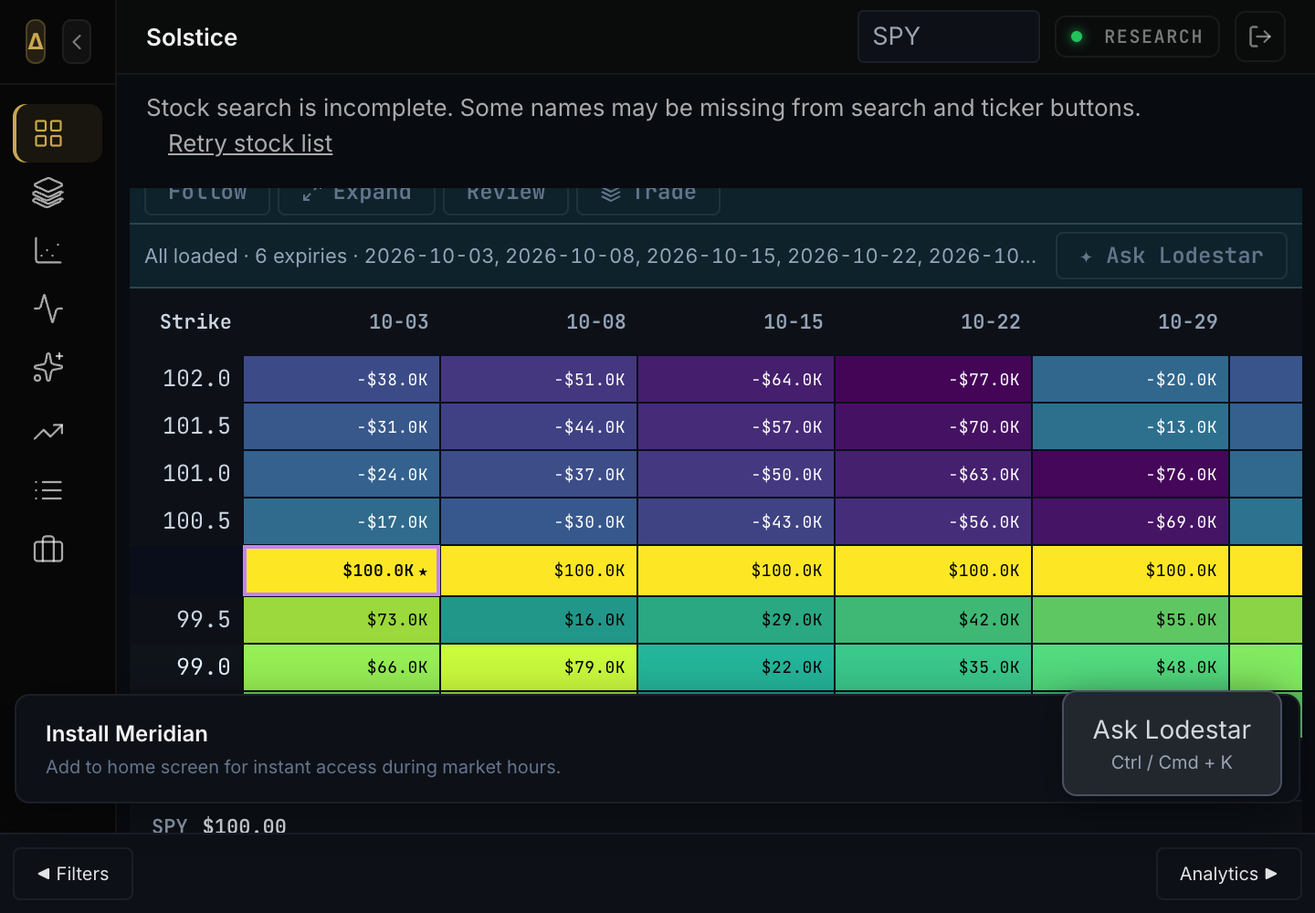
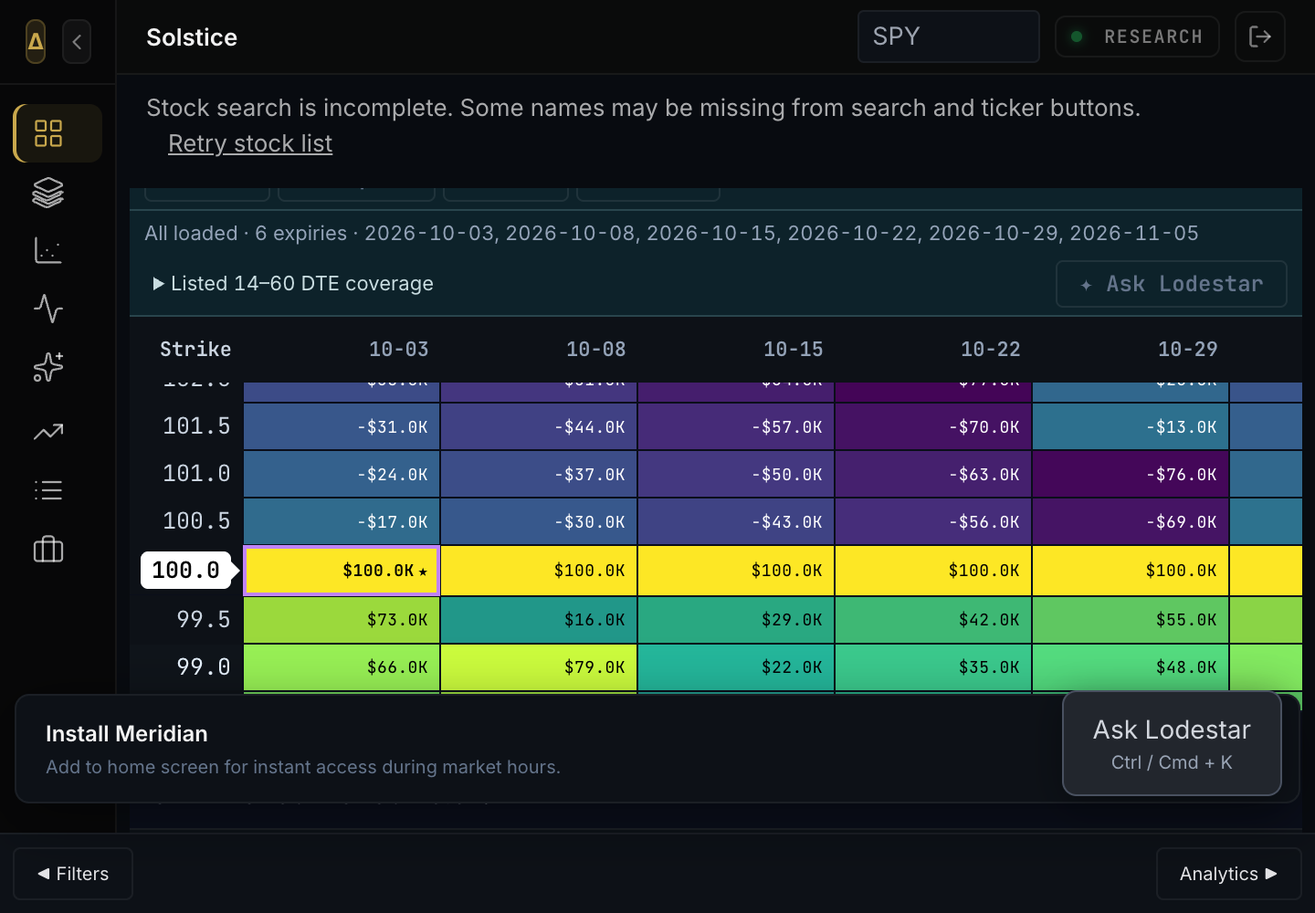
docs(solstice-r17): publish current-main combined acceptance and HOLDs
Preserve Spark d7f643a8 checkpoint/receipt verbatim via docs-only composition.
Record tested CODE4bcc6f39, source/metadata distinction, production screenshots,
coverage/catalog receipts and concrete producer/owner/operational dependencies.
Current main6eaa3343 and PR102 disarmed-supersede fix are included.
Commissioning and policy remain disarmed/UNSET; no profitability claim.

Verification:
$ python -m pytest tests/ -q --tb=short --cov=. -m 'not flaky_env'
7076 passed / 37 existing skips / 68.90% coverage at CODE4bcc6f39
$ CI=true npm test -- --watchAll=false --runInBand
126 suites / 1115 passed
$ FLOWW_BROWSER_CHANNEL=chrome npm run test-storybook
20 passed with axe; production and Storybook builds PASS
$ node scripts/r15_browser_receipt.cjs (verified Python/Chrome paths in R17_ACCEPTANCE)
8 routes / 6 viewports / native200% / zero page exceptions or execution mutations
$ ruff check .; bandit (configured gate); truth_audit; check_silent_excepts; generate_api_docs --check
PASS / PASS / 227 passed,0 failed / 353 files PASS / 379 paths PASS
$ source-hash and protected-manifest checks
664 browser hashes match; protected71/71 unchanged; frozen files unchanged
$ gh pr checks 104 --watch --interval 20
CODE4bcc6f39 backend-tests,frontend-build,docker-build,ruff all SUCCESS
CI/CD37100591587; lint37100591569. Later receipt-head checks remain separate.
$ git diff 4bcc6f39 HEAD -- frontend backend scripts .github qc
Empty after Spark docs-only merge; no runtime drift from tested CODE

diff --git a/docs/solstice/integration/R17_ACCEPTANCE.md b/docs/solstice/integration/R17_ACCEPTANCE.md
@@ -1,0 +1,91 @@
+# R17 combined acceptance — reviewable, commissioning HOLD
+
+## Exact composition
+
+- Current verified main/base: `6eaa3343655a30fd38c40abaa6a903e8d3814530`.
+- Includes PR102 fix `90f96227bbeb61ff5066274205e39206b048d4e6`: disarmed supersede cancels nothing. Ancestry verified; the regression is included in the full backend run.
+- Prior Zed/combined PR101: `dcbc14926882d36d85c5b8647bf51d9052197af5`.
+- Frozen Spark PR103 runtime: `611f3c2f71525d03ea77c5252c1c81642d424072`.
+- **Tested combined CODE: `4bcc6f39c814abc6e40084af9c8b89a5c0983296`**, draft [PR104](https://github.com/odaialdajani/floww-2/pull/104), branch `solstice/zed-r17-integration-20261003`.
+- Later Spark receipt/checkpoint head `d7f643a83ef49276254869f2b97dbb294a12593f` was merged locally into composition/metadata head `aaf49192ad577644c6da4b7ef4c236ee169a1c0d`. It changes only Spark's two documents; they are preserved verbatim. `git diff 4bcc6f39 aaf49192 -- frontend backend scripts .github qc` is empty. Later receipt HEAD is obtainable from PR104/git, not substituted for tested CODE.
+- No GitHub PR merge, main push, deployment, existing-service restart, scheduler, activation, paid model turn or order by Zed. Old R14/R16 receipts remain historical. Local branch composition is not a production merge.
+
+## Owned implementation and contracts
+
+`floww-integration.v1` now consumes Spark `coverage-read.v1`. Existing replay/metric/trace/non-executable draft/native-handoff/TideHunter versions stay unchanged.
+
+- ReplayStrip has explicit stored NY session inventory, empty/error/version/ticker admission, date selection, symbol/date reset and independent abort/generation guards. No index count claims capture readiness or complete gap coverage.
+- Coarse last-two comparison fetches owning-pair admission before displaying numbers. Only matching IDs, version and literal admitted=true pass. Refusals hide arithmetic; starting another request/step, changing symbol/session or leaving replay clears obsolete numbers and prevents late restoration.
+- Solstice provides an accessible **read-only**14–60 listing disclosure. It checks version/ticker/window/freshness/fetched observation and explains first12 listed-expiry limits. It does not mutate the map/selection, compute replacement Greeks, invoke Lodestar, choose contracts or read today's inventory during replay. The range-map control stays disabled with an updated truthful reason.
+- New synthetic coverage fixture, four additional production stories and browser interactions cover these consumers. Existing comparison smoke fixture now declares ticker/pair admission; its assertions are retained rather than skipped/weakened.
+- App.js change is one blocker sentence only. No package/dependency/server/schema/API-doc/producer/protected/watchdog edits by Zed. Spark files arrived from committed branch composition; Spark's other worktree/dirty files were not staged or overwritten.
+
+## Checks actually executed at CODE4bcc6f39
+
+| Check | Actual result |
+|---|---|
+| Full backend, unmasked, coverage-bound, not flaky_env | **7076 passed /37 existing skips /68.90%**, 60% gate met;296.05s. Blank vendor credentials, test Mongo DB, execution/capture/price/outcome flags OFF. No new skip/xfail. |
+| Full frontend Jest | **126 suites /1115 passed**,32.253s, after fresh npm ci. |
+| Focused replay/Triad/display sweep | **5 suites /120 passed**. Before implementation11 replay tests and8 expiry tests failed on absent inventory/admission behavior. |
+| Storybook interactions and axe | **20 passed** across4 story files; no accessibility rule disabled. |
+| Production CRA and Storybook builds | **PASS**. Production browser harness rebuilt and verified unchanged source/bundle hashes. |
+| Ruff0.15.22 full backend | **PASS**. |
+| Configured Bandit medium gate | **PASS**, separately fail-fast checked. |
+| Truth audit | **227 passed /0 failed**; existing unverified-model SKIP lines remain disclosed, not profitability proof. |
+| Silent-except gate | **PASS**,353 files. |
+| Generated API-doc gate | **PASS**,379 paths. Spark-owned generation untouched. Existing root HEAD duplicate operation-ID warning retained. |
[1 lines of base64/hex data omitted]
+| Compiled complete-app browser | **PASS**,8 routes/direct links/refresh/active state, back/forward/query/hash,6 captures1440/1280/390, native200% zoom, Expand/selection, dated stored sessions/play/pause/scrub/steps/Live exit, admitted/refused comparison, expiry listing, owning contract/draft/manual bridge. **0 page exceptions /0 execution mutations**. |
+| Current catalog via actual CodexBridge.catalog | **gpt-6.1-sol/xhigh supported**, fetched3 Oct05:47UTC. Default effort low, speeds default/priority. No owner save or effective dispatch was performed/verified. |
+| Hosted ship-runtime CI/CD, lint and Docker | **SUCCESS on exact CODE4bcc6f39**: backend-tests14m29s, frontend-build2m59s, Docker3m21s, Ruff2m27s. CI/CD37100591587, lint37100591569. All four confirmed by bounded `gh pr checks104 --watch`. The later receipt-head checks are separate: at receipt publication pending, not claimed green; final results must be read on [PR104 checks](https://github.com/odaialdajani/floww-2/pull/104/checks). |
+
+Local Python3.14.6/Node24.14.1 differ from ship Python3.12/Node20. Hosted exact-head checks are required. No local Docker build is claimed. React act, npm deprecation/peer, Vitest provider-options, FastAPI lifespan and build-size warnings remain disclosed.
+
+## Browser/fixture receipts and previews
+
+[Production preview index](README.md) links all screenshots and stories. [Browser receipt](evidence/browser-receipt.json) binds source commit4bcc6f39,664 source hashes and bundle hashes. It includes coverage GET identities, no execution mutations and actual chrome.tabs.setZoom(2) proof (1440→720 CSS pixels, DPR2, CSS zoom1, visual scale1). Captured document width matches viewport at1440/1280/390; matrices own their horizontal scrolling. Native zoom is not CSS/pinch emulation.
+
[3 lines of base64/hex data omitted]
+- [Fresh catalog receipt](evidence/lodestar-catalog-r17.json) is catalog-only, not settings/dispatch proof.
+
+Browser traffic is fixture-isolated; account reads/research drafts are simulated.20 console warnings include intentionally blocked resources and existing icon warnings; no zero-warning claim. The first-use install overlay remains in captures and can obscure part of the narrow matrix. These checks do not replace Nav's visual review, real feed/reconnect rights, authenticated account or live capture commissioning. No browser/Storybook/Sentry/Public/Codex-task MCP is exposed; local CLI use does not establish connected/authenticated connectors or remote Sentry delivery.
+
+## Remaining requirements — not all external
+
+Concrete producer request: [PR103 comment](https://github.com/odaialdajani/floww-2/pull/103#issuecomment-5966038604). Spark/Cline owns the response and its checkpoint; Zed does not edit it to manufacture acknowledgment.
+
+1. **Producer engineering:** NY session index versus timestamp-prefix manifest/attribute must agree for overnight/offset records. Complete admitted14–60 chain/map projection and reversed-bound refusal remain missing. FirstN expiry verdicts do not establish complete range coverage. Comparable gate admits declared ticker/provider/query/formula/session/order; it does not add independent metric-population provenance.
+2. **Execution engineering:** unmounted injected lifecycle still has optional approval/preflight, supplied-field approval rather than authenticated server-stored approval, absent-budget/buying-power skip, optional/process-local rather than durable account-wide risk/native/open/unknown inventory and unresolved multi-writer exclusion/protection admission. Existing mounted Public venue gate/cancel route stays unchanged. Operator policy cannot substitute for these controls, and no new broker-reachable boundary is authorized.
+3. **Lodestar owner operation:** authenticated owner explicitly saves catalog-supported Sol/xhigh; separately authorized grounded turn must prove effective model/effort/context trace. Zed did not guess owner, bypass auth or issue a paid turn.
+4. **Operational/operator:** admitted production records surviving restart; exact Public account/rights/entitlements and every commissioning policy value; native workflow review/activation; licensed feeds/SPX rights; Nav visual review. Current zero-durable census is a prior documented report, not a new production-store census by this session.
+
+[Commissioning packet](COMMISSIONING.md) keeps all values **UNSET**. Native bridge is manual/reviewed, not remote invocation/activation. Entry pause11:30–14:00NY is a required new-entry policy, not an enacted gate in a copied brief; risk exits/protection/reconciliation stay active under later supported execution. Underlying labels/synthetic fixtures/green CI are not realized option P&L or evidence of profitable options trading.
+
+## Reproduction / continuation
+
+From this isolated lane backend, using the existing root venv:
+
+```sh
+MONGO_URL=mongodb://localhost:27017 DB_NAME=confluence_decoder_test DATABENTO_API_KEY= POLYGON_API_KEY= ALPHA_VANTAGE_KEY= FINNHUB_API_KEY= PUBLIC_API_KEY= OPENROUTER_API_KEY=test-key-ci GEMINI_API_KEY=test-key-ci APCA_API_KEY= APCA_SECRET_KEY= FLASHALPHA_API_KEY= MARKETSTACK_API_KEY= API_SECRET_KEY= FLOWW_ENABLE_LIVE_PUBLIC=0 FLOWW_RECORDER_WORKER=0 FLOWW_PRICE_PATH_PRODUCER=0 SOLSTICE_OUTCOME_WORKER=0 /Users/nav/Documents/GitHub/floww-2/backend/.venv/bin/python -m pytest tests/ -q --tb=short --cov=. -m 'not flaky_env'
+ruff check .
+/Users/nav/Documents/GitHub/floww-2/backend/.venv/bin/bandit -r . --severity-level medium -q --exclude ./.venv,./tests --skip B101,B108,B301,B310,B313,B314,B324,B604,B608,B614,B615
+```
+
+From frontend:
+
+```sh
+CI=true npm test -- --watchAll=false --runInBand
+FLOWW_BROWSER_CHANNEL=chrome npm run test-storybook
+npm run build-storybook
+```
+
+From the lane root:
+
+```sh
+node scripts/r15_browser_receipt.cjs /Users/nav/Documents/GitHub/floww-2/backend/.venv/bin/python '/Users/nav/Library/Caches/ms-playwright/chromium-1223/chrome-mac-arm64/Google Chrome for Testing.app/Contents/MacOS/Google Chrome for Testing'
+gh pr checks 104 --watch --interval 20
+```
+
+Watch is bounded by the caller; timeout is pending, not success. Before further mutation fetch current main/PR103 and read both checkpoints. Continue an owned consumer only when a concrete producer change unblocks it. Preserve watchdog dirt and old worktrees; do not auto-merge, deploy, restart, re-arm or claim background work after the session closes.

diff --git a/docs/solstice/ZED_STATE.md b/docs/solstice/ZED_STATE.md
@@ -2,7 +2,7 @@
 
 ## Current R17 checkpoint — 3 October 2026, implementation started
 
-- Owner Zed; isolated lane `.worktrees/zed-r17-integration-20261003`, branch `solstice/zed-r17-integration-20261003`. Base main `6eaa3343655a30fd38c40abaa6a903e8d3814530`; composed HEAD `ddbe3d3f43bd8955b398214cbc87ae7700a348b2` includes PR101 `dcbc14926882d36d85c5b8647bf51d9052197af5` and frozen PR103 `611f3c2f71525d03ea77c5252c1c81642d424072`. PR102 fix `90f96227` is an ancestor. Local composition is not a GitHub PR merge. R16 acceptance below is historical, not current-candidate proof.
+- Owner Zed; isolated lane `.worktrees/zed-r17-integration-20261003`, branch `solstice/zed-r17-integration-20261003`. Base main `6eaa3343655a30fd38c40abaa6a903e8d3814530`; initial composed HEAD `ddbe3d3f43bd8955b398214cbc87ae7700a348b2` includes PR101 `dcbc14926882d36d85c5b8647bf51d9052197af5` and frozen PR103 `611f3c2f71525d03ea77c5252c1c81642d424072`. PR102 fix `90f96227` is an ancestor. Tested combined CODE `4bcc6f39c814abc6e40084af9c8b89a5c0983296`, draft PR104. Later Spark docs-only head `d7f643a83ef49276254869f2b97dbb294a12593f` was merged locally at metadata head `aaf49192ad577644c6da4b7ef4c236ee169a1c0d`; runtime/test/tooling tree equals tested CODE. Receipt HEAD comes from git/PR104, not substituted for CODE. Local composition is not a GitHub PR merge. R16 acceptance below is historical, not current-candidate proof.
 - Exposed tools: file/search/edit, terminal, fetch, skills; editor identifies GPT-6.1-Sol but effective editor effort is not exposed. No browser/Storybook/Sentry/Public/Codex-task MCP or connector authentication. Attached front2/frontend/readmegrill guidance and installed TDD/verification/frontend guidance used; finite local CLI/browser workflows only. No nested agents, schedules, global changes or paid service use.
 - Owned files: non-protected replay consumers/tests/stories, read-only expiry coverage consumer, owned verification harness, `FLOWW_INTEGRATION_CONTRACT.md`, this checkpoint and integration/commissioning receipts. One authorized surgical App.js boundary: replace only the obsolete14–60 blocker sentence (inventory now exists, range-map projection does not). No mount rewrite/package/server/schema/producer/protected/watchdog mutation. Spark's dirty MUSE_STATE and SPARK_R17_RECEIPT in spark-r17 remain read-only; composition uses committed objects only. Generated API docs remain Spark-owned; acknowledged read-only +3-path generation boundary only.
 - Contracts: `floww-integration.v1`, new consumed `coverage-read.v1`; existing replay/trace/draft/native/TideHunter versions unchanged. Fixtures remain synthetic. Requested model/effort is not effective settings. Execution/capture/price workers remain OFF; account/policy values UNSET.
@@ -10,14 +10,18 @@
 | ID | Task | Status | Exact next action / evidence |
 |---|---|---|---|
 | R17-Z1 | Current baseline/navigation/ownership | DONE | Fetched main6eaa3343; PR100/101/103 each have four successful hosted gates; PR101/103 changed paths disjoint, no runtime compatibility claimed. Main instructions/planning, packet/checkpoints, producer routes/tests read. Eight nav IDs/mounts retained. Verify protected71 at final candidate. |
-| R17-Z2 | Stored sessions + comparable-pair consumers | IN_PROGRESS | Add failing UI tests; consume versioned session list, abort/identity/reset guards and exact owning-pair admission before showing comparison. Preserve older date/manifest/step/play/scrub controls. |
-| R17-Z3 | Expiry admission disclosure | READY | Consume actual14–60 verdict/reasons with stale/version/ticker/window guards; distinguish count-limited listing from complete range/map admission. Do not enable a range map from an inventory response. |
-| R17-Z4 | Model/Public/protected commissioning boundaries | REVIEW_REQUIRED | Current catalog proof is historical; effective owner preference/dispatch requires authenticated owner and separately authorized turn. Audit producer residuals; never wire advisory executor. Policy remains UNSET. |
-| R17-Z5 | Current combined acceptance + PR | READY | Run full repository gates at committed combined code (including PR102), frontend/stories/build/browser, API379/protected71, then publish review-only PR and require exact-head hosted CI/Docker. Save exact heads/counts and actual unavailable checks. |
+| R17-Z2 | Stored sessions + comparable-pair consumers | REVIEW_REQUIRED | Implemented;11 new regressions red before patch, focused120/full frontend1115 passed. Browser proves NY index/date load/play/pause/scrub/steps/admitted/refused pair/Live exit. Spark must normalize NY index vs timestamp-prefix manifest/attribute; request linked below. |
+| R17-Z3 | Expiry admission disclosure | REVIEW_REQUIRED | Implemented read-only first12 listing/version/ticker/window/freshness/observation guard;8 red regressions then green.20 Storybook/axe states and compiled browser pass. Range map remains unavailable until Spark supplies complete admitted range/projection. No selection/model/execution mutation. |
+| R17-Z4 | Model/Public/protected commissioning boundaries | REVIEW_REQUIRED | Fresh actual catalog at05:47UTC confirms gpt-6.1-sol/xhigh. Effective owner settings/dispatch BLOCKED_EXTERNAL on authenticated owner/save + separately authorized grounded turn. Protected71/71; fixture browser8 routes + existing boundary tests pass. Spark execution engineering still missing; policy UNSET, no advisory executor wiring. |
+| R17-Z5 | Current combined acceptance + PR | REVIEW_REQUIRED | PR104: full backend7076/37 existing skips/68.90%, frontend126/1115, stories/axe20, CRA/Storybook builds/browser8 routes/6 captures/native200%/0 exceptions or execution mutations, Ruff/Bandit/truth227/silent353/API379/protected71 pass at CODE4bcc6f39. Hosted exact CODE4bcc6f39 all4 gates SUCCESS (CI/CD37100591587/lint37100591569), including backend14m29s/Docker3m21s. Later receipt-head checks pending at publication; source/metadata distinction retained. Exact final-head results: gh pr checks104 --watch --interval20; see integration/R17_ACCEPTANCE.md. Commissioning HOLD is independent of CI. |
 
 Producer audit: R17 sessions use NY day, while legacy manifest/attribute select timestamp-prefix day; overnight records can disagree. `/expiries` requests first1–12 expirations from adapter and only reports verdicts (no persisted map query, complete range guarantee or reversed-window rejection). `/comparable` checks declared ticker/provider/query/formula/session/order; missing records/stores refuse. Consumer must validate version and successful pair IDs, clear obsolete numeric comparisons before requests, and keep refusals visible. Spark owns producer corrections and authenticated/default-deny account-wide executor gaps; post concrete request on PR103, not silently patch producer files.
 
-Exact next action: add focused red tests in ReplayStrip.test.jsx, implement session enumeration + pair admission, then expiry disclosure. No R14 resweep. No merge/deploy/service restart/activation/order/model dispatch.
+Coordination request: https://github.com/odaialdajani/floww-2/pull/103#issuecomment-5966038604. Spark/Cline's newer docs are preserved verbatim, including its all-engineering-DONE claim; that claim is disputed with concrete remaining producer code requirements, not overwritten. No current acknowledgment of those requirements was observed.
+
+Exact next command: `gh pr checks 104 --watch --interval 20` with a finite timeout. Fetch main/PR103 and inspect both checkpoints before more writes. Continue oldest owned consumer only after a concrete producer payload unblocks it. No owned READY implementation remains independent of the stated producer/owner/operational dependencies. Do not repeat unchanged R14 or full-suite proofs simply to occupy time.
+
+Durable evidence: [R17_ACCEPTANCE](integration/R17_ACCEPTANCE.md), [production preview index](integration/README.md), commissioning packet and browser/catalog receipts. FixtureSHA8fefacf5c52d58c0271fcabd535c7eea61d5fb0ab24b134ba89b75aa5c821f12; coverageFixtureSHA86051a7e89a86319dc26e2793d3f0b5a6653f8990600a0a72aa9b5e56ad9f641; browserReceiptSHA90e7ae76b9d72436be28d8e6c20425fdc30b4110f108c883c4088200cbe2306b;664 source hashes match. Browser retains20 console warnings + first-use install overlay; Nav visual/live feed/real capture/owner dispatch unverified. Node24/Python3.14 local vs shipNode20/Python3.12 disclosed. No exposed Codex-task attachment tool, no authenticated Sentry connector or local Docker proof. Watchdog edits remain unstaged; original dirty/recovery lanes preserved. No GitHub PR merge/deploy/existing-service restart/activation/order/model dispatch or background-work claim.
 
 ## Historical R16 checkpoint — verified at stated heads, 3 October 2026
 

diff --git a/docs/solstice/integration/README.md b/docs/solstice/integration/README.md
@@ -1,13 +1,13 @@
 # FLOWW integration review
 
-Current accepted CODE: `e5ee1404b5461a994befd2703e57627f5dca7ff5`, draft [PR101](https://github.com/odaialdajani/floww-2/pull/101), isolated `.worktrees/combined-r16-20261003`. It combines owned Zed [PR100](https://github.com/odaialdajani/floww-2/pull/100) replay fixes with actual Spark c16e7f68. Full combined backend7069/37 existing skips/68.88%, frontend126 suites/1096, Storybook/axe16/build and eight-route compiled browser/native200% passed. Exact CODE hosted CI/CD37093482826 and lint37093482841, including Docker, succeeded. During verification Spark merged PR99 to newer main `aea1ed95ad02fe43a06df6a81fb7cf91e6079242`; runtime/tests are identical to the tested producer input. Its subsequent receipt corrections are preserved verbatim. Zed has not merged a PR, deployed or activated anything. See [R16_ACCEPTANCE](R16_ACCEPTANCE.md) for exact heads, source/metadata distinction and remaining HOLDs; [ZED_STATE](../ZED_STATE.md) for continuation. [COMBINED_ACCEPTANCE](COMBINED_ACCEPTANCE.md) retains the old047153ec receipt as historical.
+Current tested combined CODE: **`4bcc6f39c814abc6e40084af9c8b89a5c0983296`**, draft [PR104](https://github.com/odaialdajani/floww-2/pull/104), isolated `.worktrees/zed-r17-integration-20261003`. Composition includes current main6eaa3343/PR102 safety fix, PR101dcbc1492 and frozen Spark PR103611f3c2f. Newer Spark doc-only headd7f643a8 is preserved verbatim; runtime tree equals tested CODE. Full local backend7076/37 existing skips/68.90%, frontend126/1115, stories/axe20/builds and8-route compiled browser/native200% pass. Final receipt-head hosted checks are separate and must be read on PR104, not inferred from older heads. See [R17_ACCEPTANCE](R17_ACCEPTANCE.md) and [ZED_STATE](../ZED_STATE.md); R16/COMBINED_ACCEPTANCE remain historical. Zed has not merged a PR, deployed, restarted existing services or activated anything. Commissioning remains HOLD.
 
 ## Reviewable production behavior
 
 - All eight current workspace IDs are registry-backed, URL-authoritative and browser-history aware. Zenith and Steal Three mounts/calculations remain intact.
 - Solstice defaults to Matrix + Profile; left Profile changes geometry without discarding selection. Legacy Volume Profile remains accessible separately. GEX+VEX, Raw+adjusted, Multi-map, Calendar, Follow and Expand remain working. Next listed uses the admitted day-only server query; polling avoids the legacy loaded-only data alias. Four columns are not four DTE. The unsupported 14–60DTE range is visibly unavailable.
 - Triad requests same-session scope and session Volume × |delta|, distinguishes the actually admitted scope, shares raw/adjusted strike/expiry rails and display range, and publishes exact contract selection. Unknown volume/window/Greeks stay unavailable; no copied OI. Shared symbol changes clear impossible selections without navigating away from Triad.
-- Replay uses actual manifest and owning-record routes, a selected date, generation/abort/record-identity guards and persisted display projection. The displayed Raw/Adjusted pair is restored without today's Greeks. Current producer does not enumerate stored session dates or establish durable live recorder readiness. Owning identity and recorded staleness are now guarded in projection. Coarse last-two comparison currently lacks matching source/scope/model/population admission; producer follow-up is required, rather than claiming its `status=ok` establishes comparability.
+- Replay uses actual manifest and owning-record routes, a selected date, generation/abort/record-identity guards and persisted display projection. The displayed Raw/Adjusted pair is restored without today's Greeks. The new versioned producer enumerates stored NY sessions; the consumer shows dated choices and refuses stale/foreign responses. Owning identity/recorded staleness stay guarded. Coarse last-two numbers now require exact stored-pair admission; source/query/formula/session/order refusals hide numbers. NY manifest normalization, complete range-map projection and actual durable live readiness remain producer/operational follow-ups. Read-only14–60 first12 listing disclosure does not enable a range map.
 - Lodestar retains bounded authenticated research, usage reservation and cancellation. Catalog-bound Sol/xhigh preset requires explicit owner save; requested/effective trace fields are distinct. Typed drafts use backend-owned contract/wall facts, never model-generated prices, quantities or permission.
 - Public handoff is editable, dated, context-bound and manual. Operator reports are privately saved, not broker verification or activation. Actual Public account reads/partial fills stay separate from Alpaca PAPER, local portfolio estimates and journal outcomes. Backend entry is unavailable pending accepted producers.
 - TideHunter files remain untouched. An owned bridge consumes published selectors, treats ckey/premium/conviction as display-only, resolves a separate exact current record before opening review, suspends Pro through its supported `active` prop, and resumes it on close. No duplicate automatic feed or new order path is added.
@@ -27,16 +27,20 @@ Local Storybook can be opened with `npm run storybook` from the lane `frontend`.
 - `solstice-production-desk--missing-same-day-expiry`
 - `solstice-production-desk--missing-activity`
 - `solstice-production-desk--replay-gap`
+- `solstice-production-desk--stored-sessions`
+- `solstice-production-desk--comparison-refused`
+- `solstice-production-desk--listed-range-admission`
+- `solstice-production-desk--historical-range-unavailable`
 - `public-manual-reviewed-handoff--native-brief`
 - `public-manual-reviewed-handoff--backend-blocked`
 - `public-account-reads--partial-fill`
 - `public-account-reads--account-connection-failure`
 
-Storybook uses the already inspected 10.6.1/React-Vite setup, with locally pinned Vitest/Playwright and no MCP addon/second app provider. State interactions and axe checks passed16/16. Installed is not connected: this Zed chat exposes no Storybook/browser/Sentry/Public MCP connector. Finite local Chrome-for-Testing acceptance is available; Sentry authentication/remote trace delivery remain unverified.
+Storybook uses the already inspected 10.6.1/React-Vite setup, with locally pinned Vitest/Playwright and no MCP addon/second app provider. State interactions and axe checks passed20/20. Installed is not connected: this Zed chat exposes no Storybook/browser/Sentry/Public MCP connector. Finite local Chrome-for-Testing acceptance is available; Sentry authentication/remote trace delivery remain unverified.
 
 ## Historical lane validation and known limits
 
-The receipts in this section describe the original pre-merge lane, not the current continuation or PR99 combined candidate. Current checks are recorded in R16_ACCEPTANCE and ZED_STATE.
+The receipts in this section describe the original pre-merge lane, not the current continuation or PR99 combined candidate. Current checks are recorded in R17_ACCEPTANCE and ZED_STATE.
 
 Working-tree milestone: frontend126 suites/1091 tests passed; owned backend agent+Solstice1052 passed; Ruff/Bandit clean; production and Storybook builds passed; truth audit226/0; protected71/71 unchanged. An earlier full backend run logged6996 passed,37 pre-existing skips,68.66% coverage. Its shell command accidentally masked the pytest exit code; the log was explicitly checked, and the required full command must be rerun UNMASKED at the exact combined candidate. No skip/xfail was added. Counts/head-specific receipts must not be promoted to new heads without verification.
 

diff --git a/docs/solstice/integration/TIDEHUNTER_BOUNDARY.md b/docs/solstice/integration/TIDEHUNTER_BOUNDARY.md
@@ -16,7 +16,11 @@ Owned files: `frontend/src/components/public/TidehunterPublicBridge.jsx`, its te
 6. Changed symbols/selection and unmount abort/invalidate pending resolution. No owned bridge polling/SSE loop duplicates Pro. The ordinary Pro UI clock is not an additional feed or broker connection.
 7. Lodestar uses the same provider/context/auth/history machinery; Public handoff remains non-executable, separately reviewed, and never calls an order route from this bridge.
 
-## R16 continuation — current recheck
+## R17 continuation — current recheck
+
+At tested combined CODE `4bcc6f39c814abc6e40084af9c8b89a5c0983296`, protected71/71 hashes match the same manifest; full frontend126 suites/1115 tests and compiled8-route browser pass, including Pro entry/refresh and unchanged active lifecycle tests. The only new App.js edit is an unrelated range-map blocker sentence. Friend/bridge calculations, polling/SSE ownership and exact-contract boundary are unchanged. Real live reconnect/feed entitlement and Nav review remain unverified. See [R17_ACCEPTANCE](R17_ACCEPTANCE.md).
+
+## Historical R16 continuation
 
 At tested combined CODE `e5ee1404b5461a994befd2703e57627f5dca7ff5`, protected71/71 hashes remain identical; full frontend126 suites/1096 tests and compiled8-route browser passed, including Pro entry/refresh and unchanged active lifecycle tests. No protected/friend code or source/bridge implementation changed this pass. The synthetic/browser versus live-feed distinction below still applies. Current combined proof/remaining commissioning HOLDs: [R16_ACCEPTANCE](R16_ACCEPTANCE.md).
 

diff --git a/docs/solstice/integration/COMBINED_ACCEPTANCE.md b/docs/solstice/integration/COMBINED_ACCEPTANCE.md
@@ -1,6 +1,6 @@
 # Historical combined candidate — 2 October acceptance HOLD
 
-This report describes CODE `047153ec` and its then-current HOLDs. PR96 was later merged and Spark fixed generated docs/producer issues in PR97/98; current merged base is `08f3793c242d943ab3b61b84e5394ce4602daa0a`, with CI/CD37091898123 and lint37091898108 SUCCESS. Do not treat the old API-doc blocker below as still open. Current continuation, remaining producer requirements and model/operational blockers are in [ZED_STATE](../ZED_STATE.md) and [COMMISSIONING](COMMISSIONING.md); a fresh PR99 combined receipt will be published separately.
+This report describes CODE `047153ec` and its then-current HOLDs. PR96 was later merged and Spark fixed generated docs/producer issues in PR97/98; current merged base is `08f3793c242d943ab3b61b84e5394ce4602daa0a`, with CI/CD37091898123 and lint37091898108 SUCCESS. Do not treat the old API-doc blocker below as still open. Current continuation, remaining producer requirements and model/operational blockers are in [ZED_STATE](../ZED_STATE.md) and [COMMISSIONING](COMMISSIONING.md); current [R17_ACCEPTANCE](R17_ACCEPTANCE.md) supersedes the R16 candidate, includes main6eaa3343/PR102 and PR103 coverage consumers. The old report below remains historical.
 
 ## Integrated sources
 
